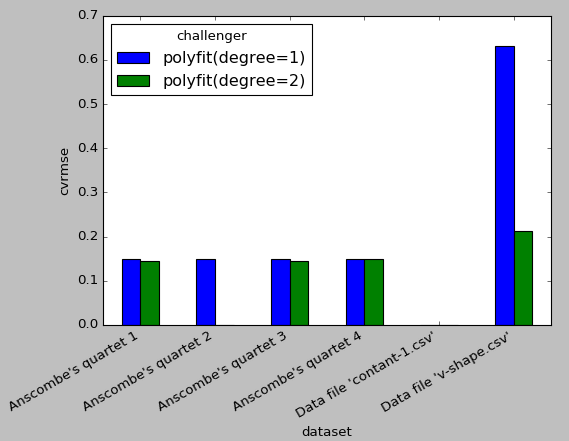
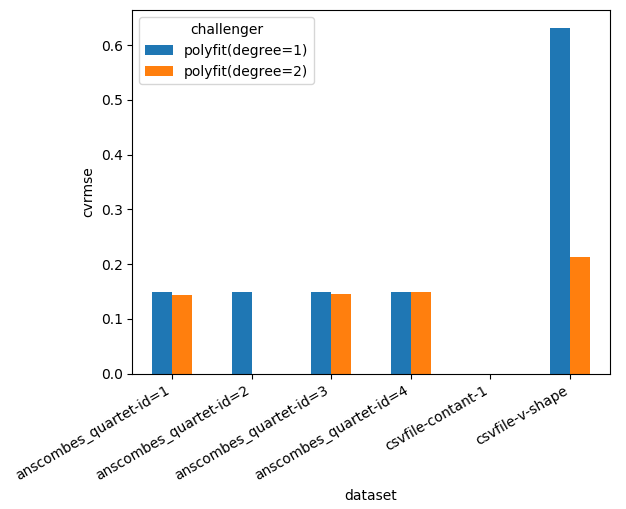
Updated documentation for latest pytest-cases, and updated figure. Fixed mkdocs

diff --git a/docs/examples/data_science_benchmark/index.md b/docs/examples/data_science_benchmark/index.md
@@ -106,24 +106,34 @@ You should see 13 test executions:
 ...
 collected 13 items 
 
-test_polyfit.py::test_poly_fit[polyfit(degree=1)-Anscombe's quartet 1] PASSED
-test_polyfit.py::test_poly_fit[polyfit(degree=2)-Anscombe's quartet 1] PASSED
-test_polyfit.py::test_poly_fit[polyfit(degree=1)-Anscombe's quartet 2] PASSED
-test_polyfit.py::test_poly_fit[polyfit(degree=2)-Anscombe's quartet 2] PASSED
-test_polyfit.py::test_poly_fit[polyfit(degree=1)-Anscombe's quartet 3] PASSED
-test_polyfit.py::test_poly_fit[polyfit(degree=2)-Anscombe's quartet 3] PASSED
-test_polyfit.py::test_poly_fit[polyfit(degree=1)-Anscombe's quartet 4] PASSED
-test_polyfit.py::test_poly_fit[polyfit(degree=2)-Anscombe's quartet 4] PASSED
-test_polyfit.py::test_poly_fit[polyfit(degree=1)-Data file 'contant-1.csv'] PASSED
-test_polyfit.py::test_poly_fit[polyfit(degree=2)-Data file 'contant-1.csv'] PASSED
-test_polyfit.py::test_poly_fit[polyfit(degree=1)-Data file 'v-shape.csv'] PASSED
-test_polyfit.py::test_poly_fit[polyfit(degree=2)-Data file 'v-shape.csv'] PASSED
+test_polyfit.py::test_poly_fit[polyfit-degree=1-anscombes_quartet-id=1] PASSED
+test_polyfit.py::test_poly_fit[polyfit-degree=2-anscombes_quartet-id=1] PASSED
+test_polyfit.py::test_poly_fit[polyfit-degree=1-anscombes_quartet-id=2] PASSED
+test_polyfit.py::test_poly_fit[polyfit-degree=2-anscombes_quartet-id=2] PASSED
+test_polyfit.py::test_poly_fit[polyfit-degree=1-anscombes_quartet-id=3] PASSED
+test_polyfit.py::test_poly_fit[polyfit-degree=2-anscombes_quartet-id=3] PASSED
+test_polyfit.py::test_poly_fit[polyfit-degree=1-anscombes_quartet-id=4] PASSED
+test_polyfit.py::test_poly_fit[polyfit-degree=2-anscombes_quartet-id=4] PASSED
+test_polyfit.py::test_poly_fit[polyfit-degree=1-csvfile-contant-1] PASSED
+test_polyfit.py::test_poly_fit[polyfit-degree=2-csvfile-contant-1] PASSED
+test_polyfit.py::test_poly_fit[polyfit-degree=1-csvfile-v-shape] PASSED
+test_polyfit.py::test_poly_fit[polyfit-degree=2-csvfile-v-shape] PASSED
 test_polyfit.py::test_synthesis PASSED
 
 ========================== 13 passed in 0.67 seconds ==========================
 ```
 
-You should also see a new file created: `polyfit_bench_results.csv`. This file contains the benchmark results table.
+You should also see
+
+ - a new folder created: `logs/`, containing one log file for each test run, for example `test_poly_fit[polyfit-degree=1-anscombes_quartet-id=1].log`:
+
+```
+INFO     algo:test_polyfit.py:47 fitting model
+INFO     algo:test_polyfit.py:52 predicting
+INFO     algo:test_polyfit.py:56 evaluating error
+```
+
+ - a new file created: `polyfit_bench_results.csv`. This file contains the benchmark results table. There are 12 rows corresponding to {2 challengers} x {6 datasets}.
 
 ### c- Optional: summary plot
 
@@ -147,7 +157,7 @@ If you install `tabulate` and enable the `-s` flag you will be able to see the t
 Since pytest is the engine used behind the scenes, there are a number of things you can do directly. For example you can run only a subset of all cases by using your IDE integration, or by using [pytest commandline filters or markers](https://docs.pytest.org/en/latest/usage.html#specifying-tests-selecting-tests). For example
 
 ```bash
->>> pytest data_science_benchmark/ -v -k "test_poly_fit[polyfit(degree=2)-Ansc"
+>>> pytest data_science_benchmark/ -v -k "test_poly_fit[polyfit-degree=2-ansc"
 ```
 
 Will only run the 4 following cases:
@@ -157,13 +167,13 @@ Will only run the 4 following cases:
 ...
 collected 13 items 
 
-test_polyfit.py::test_poly_fit[polyfit(degree=2)-Anscombe's quartet 1] PASSED
-test_polyfit.py::test_poly_fit[polyfit(degree=2)-Anscombe's quartet 2] PASSED
-test_polyfit.py::test_poly_fit[polyfit(degree=2)-Anscombe's quartet 3] PASSED
-test_polyfit.py::test_poly_fit[polyfit(degree=2)-Anscombe's quartet 4] PASSED
+test_polyfit.py::test_poly_fit[polyfit-degree=2-anscombes_quartet-id=1] PASSED  [ 25%]
+test_polyfit.py::test_poly_fit[polyfit-degree=2-anscombes_quartet-id=2] PASSED  [ 50%]
+test_polyfit.py::test_poly_fit[polyfit-degree=2-anscombes_quartet-id=3] PASSED  [ 75%]
+test_polyfit.py::test_poly_fit[polyfit-degree=2-anscombes_quartet-id=4] PASSED  [100%]
 
 ===== 9 tests deselected by '-ktest_poly_fit[polyfit(degree=2)-Anscombe' ======
-=================== 4 passed, 9 deselected in 0.66 seconds ====================
+=================== 4 passed, 9 deselected in 0.07 seconds ====================
 ```
 
 This might be particularly interesting to debug particular cases, or to perform *profiling* on only a subset (see below).
@@ -190,15 +200,11 @@ Here 53% of the total python execution time is spent inside the evaluation proto
 Note that `pytest-profiling` requires `graphviz` to be installed on your machine. You can install it using `conda install` if your python distribution is anaconda.
 
 !!! note "Windows + anaconda users"
-    If you are in this configuration, you might find that the svg file is not generated even though no particular error is encountered. This is a known bug in pytest-profiling with already a proposed [solution](https://github.com/manahl/pytest-plugins/pull/99). Until they integrate the fix, you may wish to clone the proposed Pull Request branch on your local environment.
+    If you are in this configuration, you might find that the svg file is not generated even though no particular error is encountered. This is a known bug in pytest-profiling that was [fixed](https://github.com/man-group/pytest-plugins/pull/99) but we are still waiting for the corresponding [release on pypi](https://github.com/man-group/pytest-plugins/issues/162). In the meantime you can clone the PR locally.
     
 !!! note "Pycharm + anaconda users"
     If you are in this configuration and installed graphviz using conda, PyCharm might forget to add it to the system PATH. You have to do it manually. This is a known issue in [PyCharm](https://youtrack.jetbrains.com/issue/PY-32408).
     
-### g- Optional: pytest logging
-
-**TODO** explain how to use `pytest-logger` to generate one log file per test node.
-
 ## Code details
 
 Our solution is made of three files:
@@ -212,44 +218,49 @@ Our solution is made of three files:
 
 ### a- Evaluation protocol
 
-The first thing to do when creating a benchmark is to create the function that will evaluate each node (i.e. that will correspond to a single row in the results table). For this we create a pytest test function, that is, a function whose name starts with `test_`. *Note: the file name should also start with `test_`, that's a requirement from pytest.*
+The first thing to do when creating a benchmark is to create the function that will evaluate each node (i.e. that will correspond to a single row in the results table). For this we create a `pytest` test function, that is, a function whose name starts with `test_`. *Note: the file name should also start with `test_`, that's a requirement from pytest.*
 
 ```python
 def test_poly_fit(challenger, dataset, results_bag):
-    # Get the test case at hand
-    x, y = dataset
-
     # Fit the model
-    challenger.fit(x, y)
+    challenger.fit(dataset.x, dataset.y)
+    results_bag.model = challenger
 
     # Use the model to perform predictions
-    predictions = challenger.predict(x)
+    predictions = challenger.predict(dataset.x)
 
     # Evaluate the prediction error
-    cvrmse = np.sqrt(np.mean((predictions-y)**2)) / np.mean(y)
+    cvrmse = np.sqrt(np.mean((predictions-dataset.y)**2)) / np.mean(dataset.y)
+    print("Relative error (cv-rmse) is: %.2f%%" % (cvrmse * 100))
     results_bag.cvrmse = cvrmse
 ```
 
-Now we need to tell pytest how to generate the three inputs:
+Now we need to tell `pytest` how to generate the three inputs:
 
  - we need to collect and inject the `challenger` objects, that should implement both a `fit` and `predict` method
  - we need to collect and inject the `dataset` objects, that should be tuples `(x, y)`
- - we need to collect and inject the `results_bag` objects, where we store our cv-rmse metric.
+ - we need to inject the `results_bag` objects, where we store our cv-rmse metric, and collect all of them to make the synthesis table
 
 We will perform all of this by relying on the same mechanism: `pytest` "fixtures". However that would require a significant amount of code so we rely on plugins to help us on the way. 
 
 
 ### b- Challengers
 
-We create a `challenger` fixture, with a single parameter containing the degree to use in `np.polyfit`:
+We create a `challenger` fixture that relies on `pytest-cases` to gather all case functions prefixed with `algo_` from module `challengers_polyfit.py`:
 
 ```python
-@pytest.fixture(params=[1, 2], ids="polyfit(degree={})".format)
-def challenger(request):
-    return PolyFitChallenger(degree=request.param)
+@fixture
+@parametrize_with_cases("algo", cases='.challengers_polyfit', prefix='algo_')
+def challenger(algo):
+    """ A fixutre collecting all challengers from `challengers_polyfit.py` """
+    # (optional setup code here)
+    yield algo
+    # (optional teardown code here)
 ```
 
-In order to separate the challenger implementation code from the evaluation protocol, our `PolyFitChallenger` class is located in `challengers_polyfit.py`. It is made of two classes:
+This fixture is not mandatory (the test itself could be parametrized with the cases directly) but it can be handy to execute some setup/teardown code transverse to all challengers - this is why we show this.
+
+All the code in charge to create the challengers is therefore located in the separate `challengers_polyfit.py` file. This file is made of two parts:
 
  - **Interface** - `BenchmarkChallenger` is the interface that all challengers should implement to enter the benchmark. Here we define that challengers should implement two methods : `fit` and `predict`.
  
@@ -262,7 +273,7 @@ class BenchmarkChallenger(object):
         pass
 ```
 
- - **Implementation** - `PolyFitChallenger` is the class representing a `np.polyfit`-based challenger. This class provides a concrete implementation of `fit` and `predict`, based on numpy. It has one remaining parameter in the constructor: `degree`.
+ - **Implementation** - `PolyFitChallenger` is the class representing a `np.polyfit`-based challenger. This class provides a concrete implementation of `fit` and `predict`, based on numpy. It has one remaining parameter in the constructor: `degree`. It is used to create two challengers with degrees 1 and 2, in the case function `algo_polyfit`
 
 ```python
 class PolyFitChallenger(BenchmarkChallenger):
@@ -270,61 +281,72 @@ class PolyFitChallenger(BenchmarkChallenger):
         self.degree = degree
        
     # ... (implementation of `fit` and `predict`)
+
+@parametrize(degree=[1, 2])
+def algo_polyfit(degree):
+    return PolyFitChallenger(degree=degree)
 ```
+
 
 ### c- Datasets
 
-We create a `dataset` fixture by leveraging `@cases_fixture` (from `pytest_cases`). This decorator allow us to easily parametrize a fixture from a variety of case functions located in a separate module.
+Similar to `challenger`, we create a `dataset` fixture to gather all case functions prefixed with `data_` from module `datasets_polyfit.py`.
 
 ```python
-@cases_fixture(module=datasets_polyfit, scope='session')
-def dataset(case_data):
-    return case_data.get()
+@fixture(scope='session')
+@parametrize_with_cases("data", cases='.datasets_polyfit', prefix='data_')
+def dataset(data):
+    # (optional setup code here)
+    yield data
+    # (optional teardown code here)
 ```
 
-All the code in charge to create the datasets is therefore located in the separate `datasets_polyfit.py` file. There are two main *case functions*:
+All the code in charge to create the datasets is therefore located in the separate `datasets_polyfit.py` file. Once again this file first defines the **interface**, in this case what a `Dataset` is (a `namedtuple)`:
+
+```python
+Dataset = namedtuple("Dataset", ('x', 'y'))
+```
+
+And them the **implementation** with two main type of dataset generators:
 
  - one to generate data **from code**. This function creates the 4 datasets known as Anscombe's quartet.
  
 ```python
-@cases_generator("Anscombe's quartet {i}", i=range(1, 5))
-def case_anscombe(i):
-    if i == 1:
+@parametrize(id=range(1, 5))
+def data_anscombes_quartet(id):
+    if id == 1:
         x = [10.0, 8.0, 13.0, 9.0, 11.0, 14.0, 6.0, 4.0, 12.0, 7.0, 5.0]
         y = [8.04, 6.95, 7.58, 8.81, 8.33, 9.96, 7.24, 4.26, 10.84, 4.82, 5.68]
-    elif i == 2:
+    elif id == 2:
         x = [10.0, 8.0, 13.0, 9.0, 11.0, 14.0, 6.0, 4.0, 12.0, 7.0, 5.0]
         y = [9.14, 8.14, 8.74, 8.77, 9.26, 8.10, 6.13, 3.10, 9.13, 7.26, 4.74]
     ...
-
-    return x, y
+    return Dataset(x, y)
 ```
  
  - and another **from csv files** located in the `datasets/` folder.
 
 ```python
-ALL_DATASET_FILES = [(DATASETS_DIR, file_name) 
-                     for file_name in listdir(DATASETS_DIR)]
+datasets_dir = Path(__file__).parent / 'datasets'
+all_csv_files = [datasets_dir / file_name for file_name in datasets_dir.glob('*.csv')]
 
-@cases_generator("Datafile '{csv_file_path[1]}'", csv_file_path=ALL_DATASET_FILES)
-def case_file(csv_file_path):
-    my_data = np.genfromtxt(path.join(*csv_file_path), delimiter=',', names=True)
-    return my_data['x'], my_data['y']
+@parametrize(csv_file_path=all_csv_files, idgen=lambda csv_file_path: csv_file_path.stem)
+def data_csvfile(csv_file_path):
+    """ Generates one case per file in the datasets/ folder """
+    my_data = np.genfromtxt(csv_file_path, delimiter=',', names=True)
+    return Dataset(x=my_data['x'], y=my_data['y'])
 ```
+
+Note: the `@pytest.mark.parametrize` syntax is not yet available for `@pytest.fixture` (vote for it [here](https://github.com/pytest-dev/pytest/issues/3960)!), that is why we use the drop-in replacement provided in `pytest-cases` named `@fixture`. We also use the `@parametrize` variant proposed by `pytest-cases` to benefit from its additional usability features.
 
 See [pytest-cases documentation](https://smarie.github.io/python-pytest-cases/) for details.
 
 
-### d- Results bag
+### d- Results bag and synthesis table creation
 
-The `results_bag` fixture is automatically created when you install `pytest-harvest`, according to [pytest_harvest documentation](https://smarie.github.io/python-pytest-harvest/). So we have nothing particular to do.
+The `results_bag` fixture is automatically created when you install `pytest-harvest`, according to [pytest_harvest documentation](https://smarie.github.io/python-pytest-harvest/). So we have nothing particular to do to have your test function receive it.
 
-
-### e- Synthesis table creation
-
-If we run pytest at this stage, all combinations of `challenger`s and `dataset`s would be evaluated, and the `results_bag` of each execution would be stored in the global `fixture_store` fixture. 
-
-To retrieve all results and make the final table we simply create an additional test using the `module_results_df` fixture. We can then edit that table according to our display preferences: 
+If we run `pytest` at this stage, all combinations of `challenger`s and `dataset`s would be evaluated, and the `results_bag` of each execution would be stored in the global `fixture_store` fixture. To retrieve all results and make the final table we simply create an additional test using the `module_results_df` fixture from `pytest-harvest`. We can then edit that table according to our display preferences: 
 
 ```python
 def test_synthesis(module_results_df):
@@ -342,9 +364,34 @@ def test_synthesis(module_results_df):
 
 Note that according to [pytest_harvest documentation](https://smarie.github.io/python-pytest-harvest/) there are many alternate places where you could put this code. I personally like it in a test, because it appears in the IDE pytest tree - but that is not a mandatory feature :) Our only true requirement here is that is runs after all the `test_poly_fit[...]` test nodes.
 
+### e- Logging
+
+With `pytest`, logging to one file per test is very easy, we follow [this suggestion from stackoverflow](https://stackoverflow.com/a/60495774/7262247) to dynamically assign the log file name according to the currently executed test id:
+ 
+```python
+# logging configuration
+exec_log = logging.getLogger('algo')
+logs_dir = Path(__file__).parent / "logs"
+
+
+@fixture(autouse=True)
+def configure_logging(request, caplog):
+    """ Set log file name same as test name, and set log level. You could change the format here too """
+    log_file = logs_dir / ("%s.log" % request.node.name)
+    request.config.pluginmanager.get_plugin("logging-plugin").set_log_path(log_file)
+    caplog.set_level(logging.INFO)
+```
+ 
+See [`pytest` documentation on logging](https://docs.pytest.org/en/stable/logging.html) for details.
+
 
 ### f- Summary
 
 To sum-up, the code architecture looks like this:
 
 ![Architecture](Architecture.png)
+
+
+## To go further
+
+We describe a few additions to this example in the [advanced version](../data_science_benchmark_3/)

diff --git a/docs/index.md b/docs/index.md
@@ -8,10 +8,10 @@ A couple of examples showing how to use core `pytest` mechanisms and existing pl
 
 ## Current list of examples
 
-Currently there is a single example, but you've got to start somewhere, right ? ;)
+The following examples are provided:
 
- * [Data science benchmark](./examples/data_science_benchmark/) demonstrates how pytest can be used as a benchmarking engine to compare the performances of several data sciences algorithms on several datasets and produce a report table. This example also shows how plots can be integrated in pytest.
-
+ * [Data science benchmark](./examples/data_science_benchmark/) demonstrates how pytest can be used as a benchmarking engine to compare the performances of several data sciences algorithms on several datasets and produce various reports (plots, csv table...).
+ 
 Note: you can download all examples at once from [this link](https://github.com/smarie/pytest-patterns/releases/latest)
 
 ## See Also
